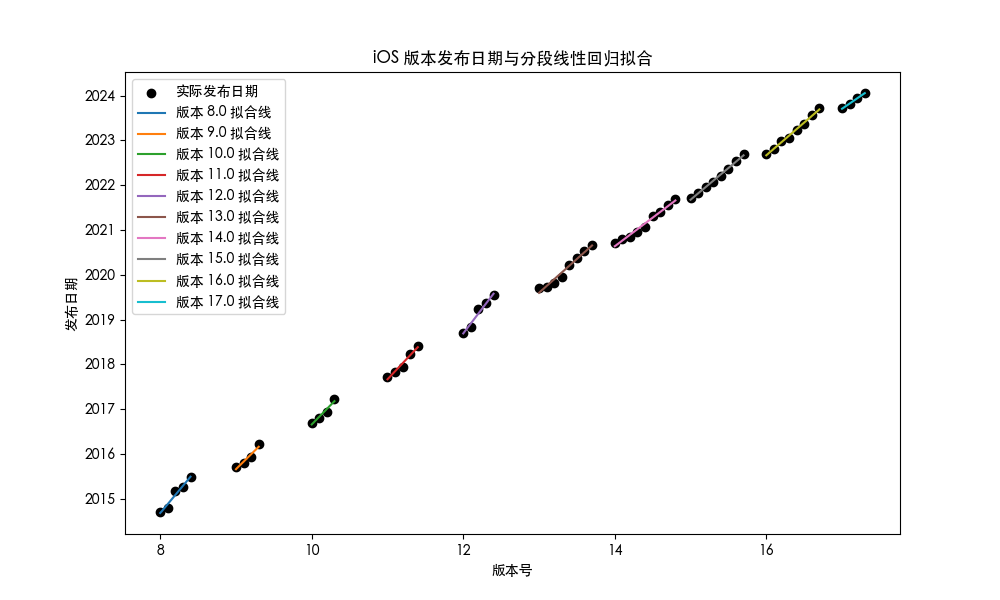
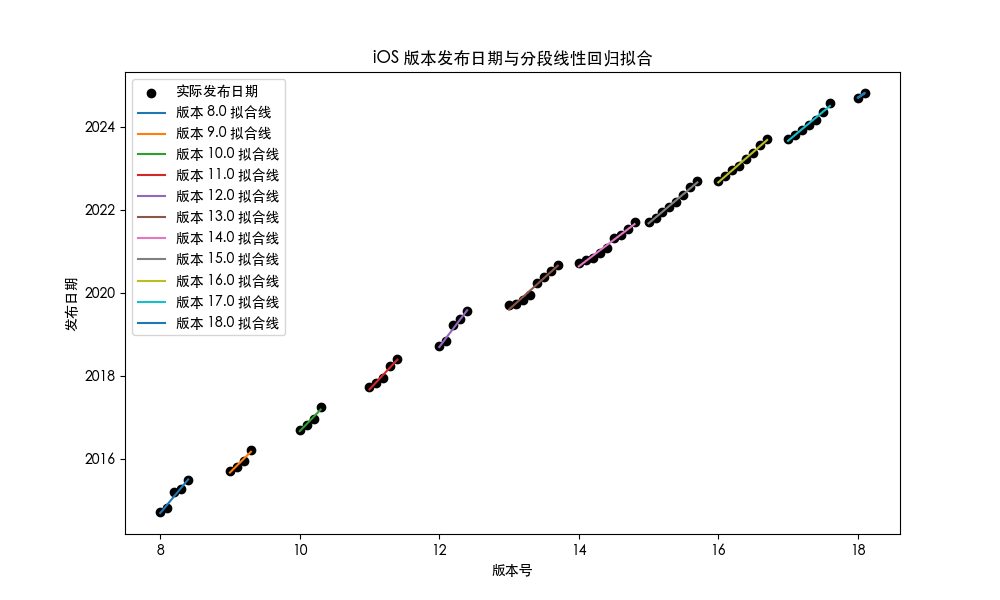
update241120

diff --git a/README.md b/README.md
@@ -46,6 +46,14 @@ Please enter the version number you want to predict: 17.3
 The predicted release date for version 17.3 is 2024-01-21 
 ```
 
+## UPDATE in 2024/11/20：
+
+```
+Please enter the version number you want to predict: 18.2
+
+The predicted release date for version 18.2 is 2024-12-09
+```
+
 ![](Resources/Plot/main.png)
 
 ---
